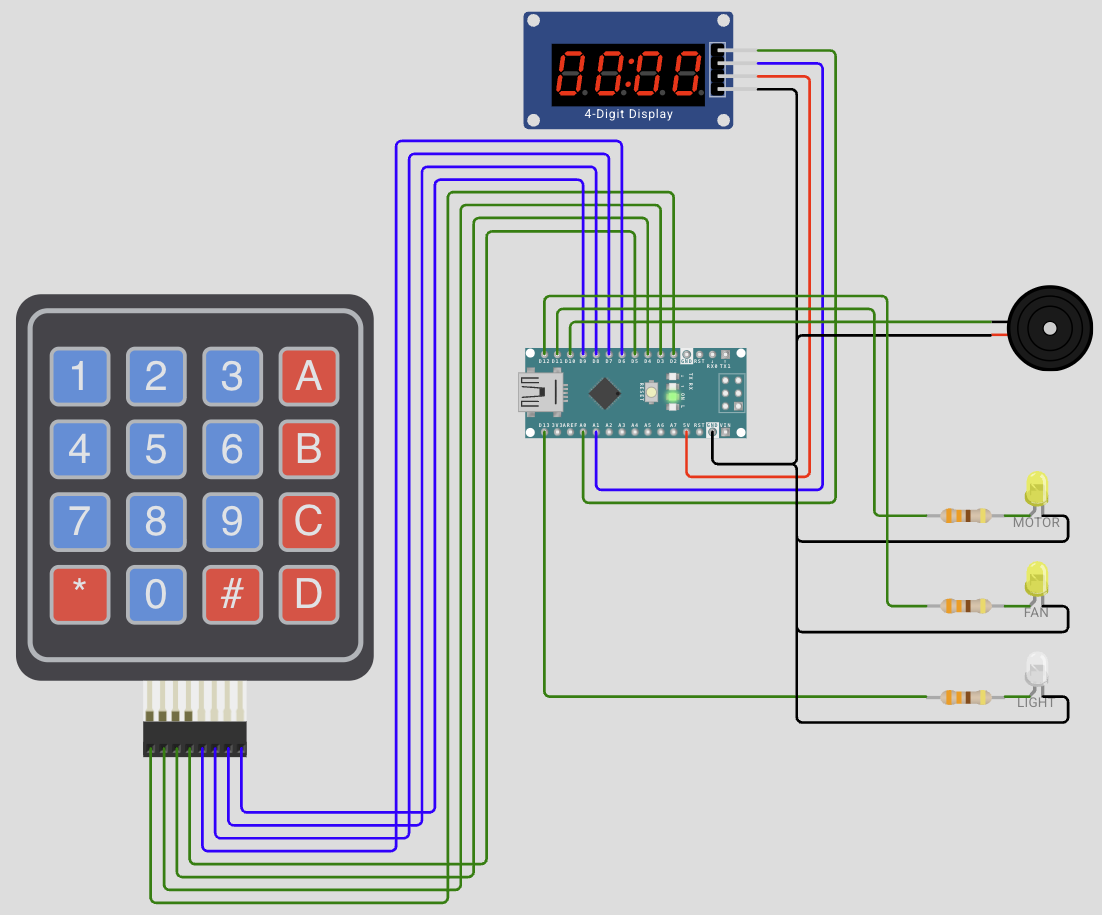
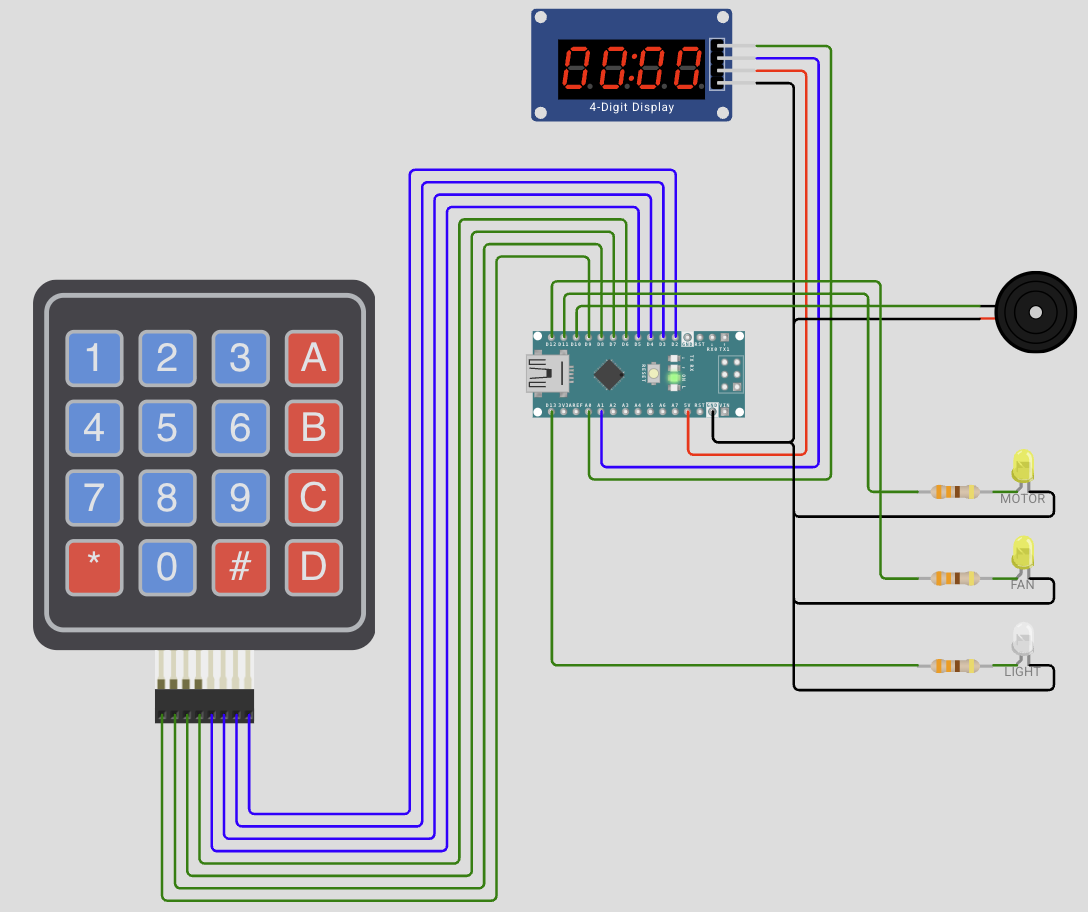
refactor(toy-microwave): extract MatrixScanner.h and reverse keypad pin order
- What: (1) pulled the inline scanRawKeyIndex() row/column GPIO scan out of main.cpp into its own MatrixScanner.h, matching the identical technique's new standalone home at arduino-nano/keypad and the same generic-hardware-driver shape as stepper's Stepper.h and robot-buoy's Radio.h; (2) reversed the keypad's row/column pin assignment onto the same D2-D9 block (rows D9-D6, columns D5-D2, was D2-D5/D6-D9), matching the same flip just applied to arduino-nano/keypad
- Why: the row/column scanning technique doesn't belong bundled with the debounce/layout logic in KeyMatrix.h (unrelated concerns -- same reasoning as extracting Button.h out of stepper's Stepper.h earlier); the pin reversal keeps both projects' wiring consistent with each other
- How: ROW_PINS/COL_PINS and the LAYOUT lookup are pin-number-agnostic, so neither change affects behavior -- verified by all 43 existing native tests passing unchanged before and after
- Benefit: main.cpp is thinner (the mechanical GPIO loop lives in its own reusable-shaped header), and this project's keypad wiring matches arduino-nano/keypad's

Changed region(s): [[0.0, 0.0, 1.0, 1.0]]

diff --git a/arduino-nano/toy-microwave/src/main.cpp b/arduino-nano/toy-microwave/src/main.cpp
@@ -3,14 +3,15 @@
 
 #include "Buzzer.h"
 #include "KeyMatrix.h"
+#include "MatrixScanner.h"
 #include "Microwave.h"
 #include "SevenSegment.h"
 
 namespace {
 
 // Matrix rows/cols — a 4x4 matrix keypad (see README's BOM; tested against Wokwi's matrix pad).
-constexpr uint8_t ROW_PINS[keymatrix::ROWS] = {2, 3, 4, 5};
-constexpr uint8_t COL_PINS[keymatrix::COLS] = {6, 7, 8, 9};
+constexpr uint8_t ROW_PINS[keymatrix::ROWS] = {9, 8, 7, 6};
+constexpr uint8_t COL_PINS[keymatrix::COLS] = {5, 4, 3, 2};
 
 constexpr uint8_t PIN_BUZZER = 10;
 constexpr uint8_t PIN_MOTOR  = 11;
@@ -27,7 +28,8 @@ constexpr uint16_t BLINK_PERIOD_MS = 1000;        // colon/display blink cycle w
 constexpr uint8_t COLON_DIGIT_INDEX = 1;
 constexpr uint8_t COLON_BIT = 0x80;
 
-keymatrix::Scanner       keyScanner;
+matrixscanner::Scanner    matrixScanner(ROW_PINS, COL_PINS);
+keymatrix::Scanner        keyScanner;
 microwave::Controller     controller;
 microwave::State          previousState = microwave::State::Idle;
 TM1637Display             display(PIN_DISPLAY_CLK, PIN_DISPLAY_DIO);
@@ -35,21 +37,6 @@ TM1637Display             display(PIN_DISPLAY_CLK, PIN_DISPLAY_DIO);
 buzzer::Pattern activeBuzzerPattern  = buzzer::Pattern::None;
 uint32_t        buzzerPatternStartMs = 0;
 uint32_t        lastTickMs           = 0;
-
-// Scan all rows/columns once; returns the raw key index for keymatrix::Scanner, or NO_KEY.
-uint8_t scanRawKeyIndex() {
-  for (uint8_t r = 0; r < keymatrix::ROWS; ++r) {
-    digitalWrite(ROW_PINS[r], LOW);
-    for (uint8_t c = 0; c < keymatrix::COLS; ++c) {
-      if (digitalRead(COL_PINS[c]) == LOW) {
-        digitalWrite(ROW_PINS[r], HIGH);
-        return static_cast<uint8_t>(r * keymatrix::COLS + c);
-      }
-    }
-    digitalWrite(ROW_PINS[r], HIGH);
-  }
-  return keymatrix::NO_KEY;
-}
 
 // Map a settled key character to a microwave::Event. Returns false for keys this project
 // doesn't use (B-D) — the keypad is a standard 16-key layout; see README for the full mapping.
@@ -130,13 +117,7 @@ void updateDisplay() {
 }  // namespace
 
 void setup() {
-  for (uint8_t r = 0; r < keymatrix::ROWS; ++r) {
-    pinMode(ROW_PINS[r], OUTPUT);
-    digitalWrite(ROW_PINS[r], HIGH);
-  }
-  for (uint8_t c = 0; c < keymatrix::COLS; ++c) {
-    pinMode(COL_PINS[c], INPUT_PULLUP);
-  }
+  matrixScanner.begin();
 
   pinMode(PIN_BUZZER, OUTPUT);
   pinMode(PIN_MOTOR, OUTPUT);
@@ -147,7 +128,7 @@ void setup() {
 }
 
 void loop() {
-  char key = keyScanner.scan(scanRawKeyIndex());
+  char key = keyScanner.scan(matrixScanner.scan());
   microwave::Event event;
   if (key != '\0' && translateKey(key, event)) {
     controller.handle(event);

diff --git a/arduino-nano/toy-microwave/include/MatrixScanner.h b/arduino-nano/toy-microwave/include/MatrixScanner.h
@@ -1,0 +1,51 @@
+#pragma once
+
+#include <stdint.h>
+#include <Arduino.h>
+
+#include "KeyMatrix.h"
+
+// Generic row/column matrix GPIO scanner: drives each row low in turn and reads back which
+// column (if any) is pulled low, returning a raw index (row*COLS+col), or keymatrix::NO_KEY if
+// none are active. Knows nothing about debouncing or key characters -- see KeyMatrix.h for that
+// -- purely the physical scan technique, reusing its ROWS/COLS/NO_KEY constants so the two stay
+// in sync. Hardware-coupled (digitalWrite/digitalRead), so this doesn't unit-test off-device.
+// Standalone version (identical technique, own tests) lives at arduino-nano/keypad.
+namespace matrixscanner {
+
+class Scanner {
+ public:
+  Scanner(const uint8_t* rowPins, const uint8_t* colPins) : rowPins_(rowPins), colPins_(colPins) {}
+
+  void begin() {
+    for (uint8_t r = 0; r < keymatrix::ROWS; ++r) {
+      pinMode(rowPins_[r], OUTPUT);
+      digitalWrite(rowPins_[r], HIGH);
+    }
+    for (uint8_t c = 0; c < keymatrix::COLS; ++c) {
+      pinMode(colPins_[c], INPUT_PULLUP);
+    }
+  }
+
+  // Scans all rows/columns once; returns the raw index of the first active column found, or
+  // keymatrix::NO_KEY if none are active.
+  uint8_t scan() {
+    for (uint8_t r = 0; r < keymatrix::ROWS; ++r) {
+      digitalWrite(rowPins_[r], LOW);
+      for (uint8_t c = 0; c < keymatrix::COLS; ++c) {
+        if (digitalRead(colPins_[c]) == LOW) {
+          digitalWrite(rowPins_[r], HIGH);
+          return static_cast<uint8_t>(r * keymatrix::COLS + c);
+        }
+      }
+      digitalWrite(rowPins_[r], HIGH);
+    }
+    return keymatrix::NO_KEY;
+  }
+
+ private:
+  const uint8_t* rowPins_;
+  const uint8_t* colPins_;
+};
+
+}  // namespace matrixscanner

diff --git a/arduino-nano/toy-microwave/README.md b/arduino-nano/toy-microwave/README.md
@@ -23,6 +23,7 @@ Self-contained PlatformIO project (`platformio.ini`, `include/`, `src/`, `test/`
 - **`SevenSegment.h`** — display-value formatting (a total-seconds-style value → two digit-pair values) and a blink-cycle helper, used for the colon in every state but Running. Shared by both the cook-timer's MM:SS and the clock's HH:MM, since the digit-pair math is identical regardless of what the two halves mean.
 - **`Buzzer.h`** — tone/frequency selection and beep-pattern timing (key press, done — 4 beeps, error) plus the continuous Running hum, and `isFinished()` to know when a one-shot pattern's whole sequence (not just its current on/off phase) has completed.
 - **`KeyMatrix.h`** — debounced key detection across a 4x4 matrix, using the same debounce pattern as `arduino-nano/led-dimmer-ws2812`'s `Button` class generalized to a 16-way key index. Named to avoid colliding with the well-known Arduino `Keypad` library.
+- **`MatrixScanner.h`** — the generic row/column GPIO scan technique (drive each row low, read back the active column), separate from `KeyMatrix.h`'s debouncing/layout lookup. Hardware-coupled, not unit-tested — same shape as `stepper`'s `Stepper.h` and `robot-buoy`'s `Radio.h`. Identical technique, standalone with its own tests, lives at `arduino-nano/keypad`.
 - **`Clock.h`** (namespace `wallclock`, to avoid shadowing the C standard library's `clock()`) — a hardware-free time-of-day counter (seconds since midnight, advanced by `tick()`) plus its own digit-entry helpers for HH:MM. No RTC chip is in the BOM, so this is a plain software clock that resets to 0:00 on every power loss or reset — fine for a toy/prop build; a battery-backed RTC (e.g. DS3231) would be needed for it to survive a power cycle.
 - **`Microwave.h`** — the app-level orchestrator: the Idle → Setting → Running → Done cook-timer state machine (plus `ClockSet`, reachable from Idle), driven by abstract `Event`s (`Digit`/`Start`/`Cancel`/`Clock`/`Tick`) rather than any specific keypad wiring. Owns the cook-timer flow itself but delegates time-of-day keeping to `Clock.h`'s `wallclock::Clock` rather than absorbing that concern directly — `Microwave.h` is the main app, `Clock.h` is a service it composes.
 - **`main.cpp`** — matrix scan → debounced key → `Event` → state machine → buzzer pattern selection, motor/fan/light on/off, and TM1637 display rendering.
@@ -56,7 +57,7 @@ points at the actual upstream repo instead). The colon segment's exact bit posit
 (`COLON_DIGIT_INDEX`/`COLON_BIT` in `main.cpp`) is a common-board guess, not yet confirmed against
 this specific display — check it once the display is wired up and adjust if the colon doesn't light.
 
-Pin assignments (placeholder pending a real schematic): matrix rows D2–D5, columns D6–D9, buzzer
+Pin assignments (placeholder pending a real schematic): matrix rows D9–D6, columns D5–D2, buzzer
 D10, motor D11, fan D12, light D13, display CLK A0 / DIO A1.
 
 ## Quick start
